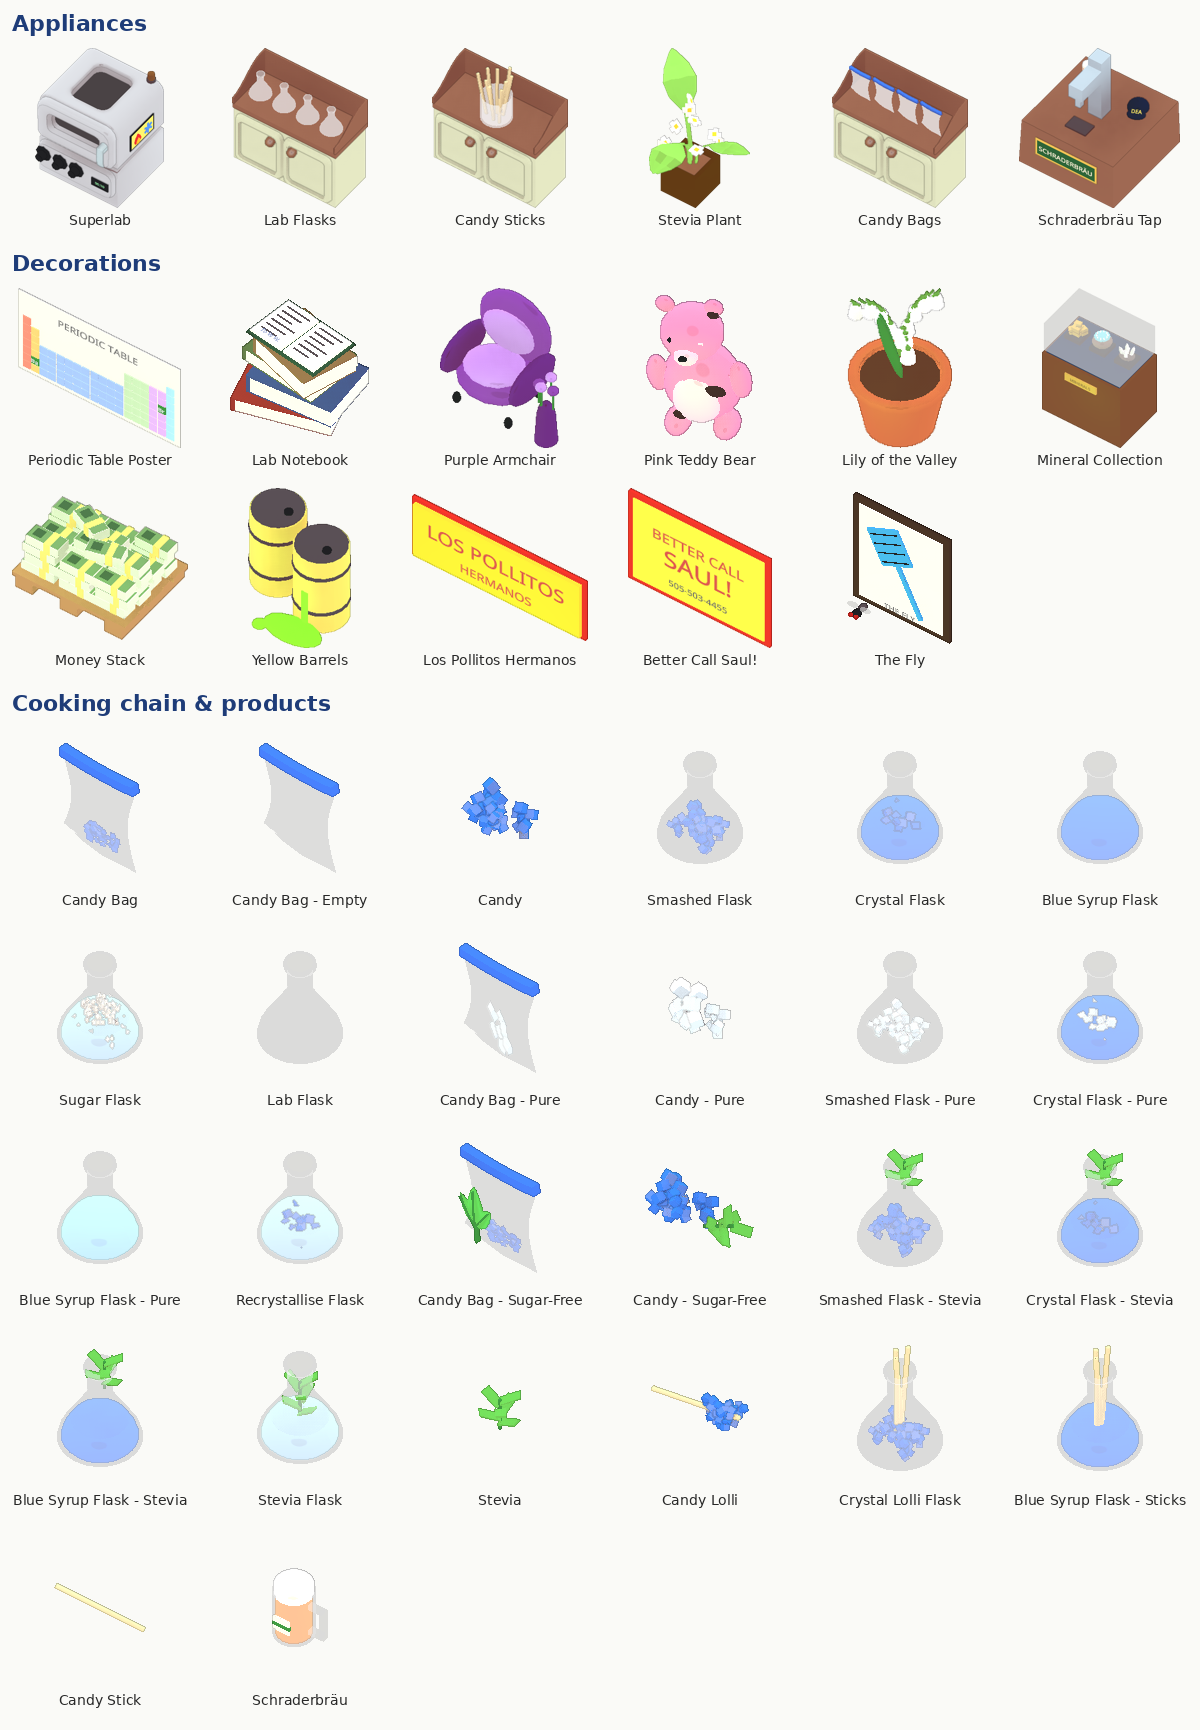
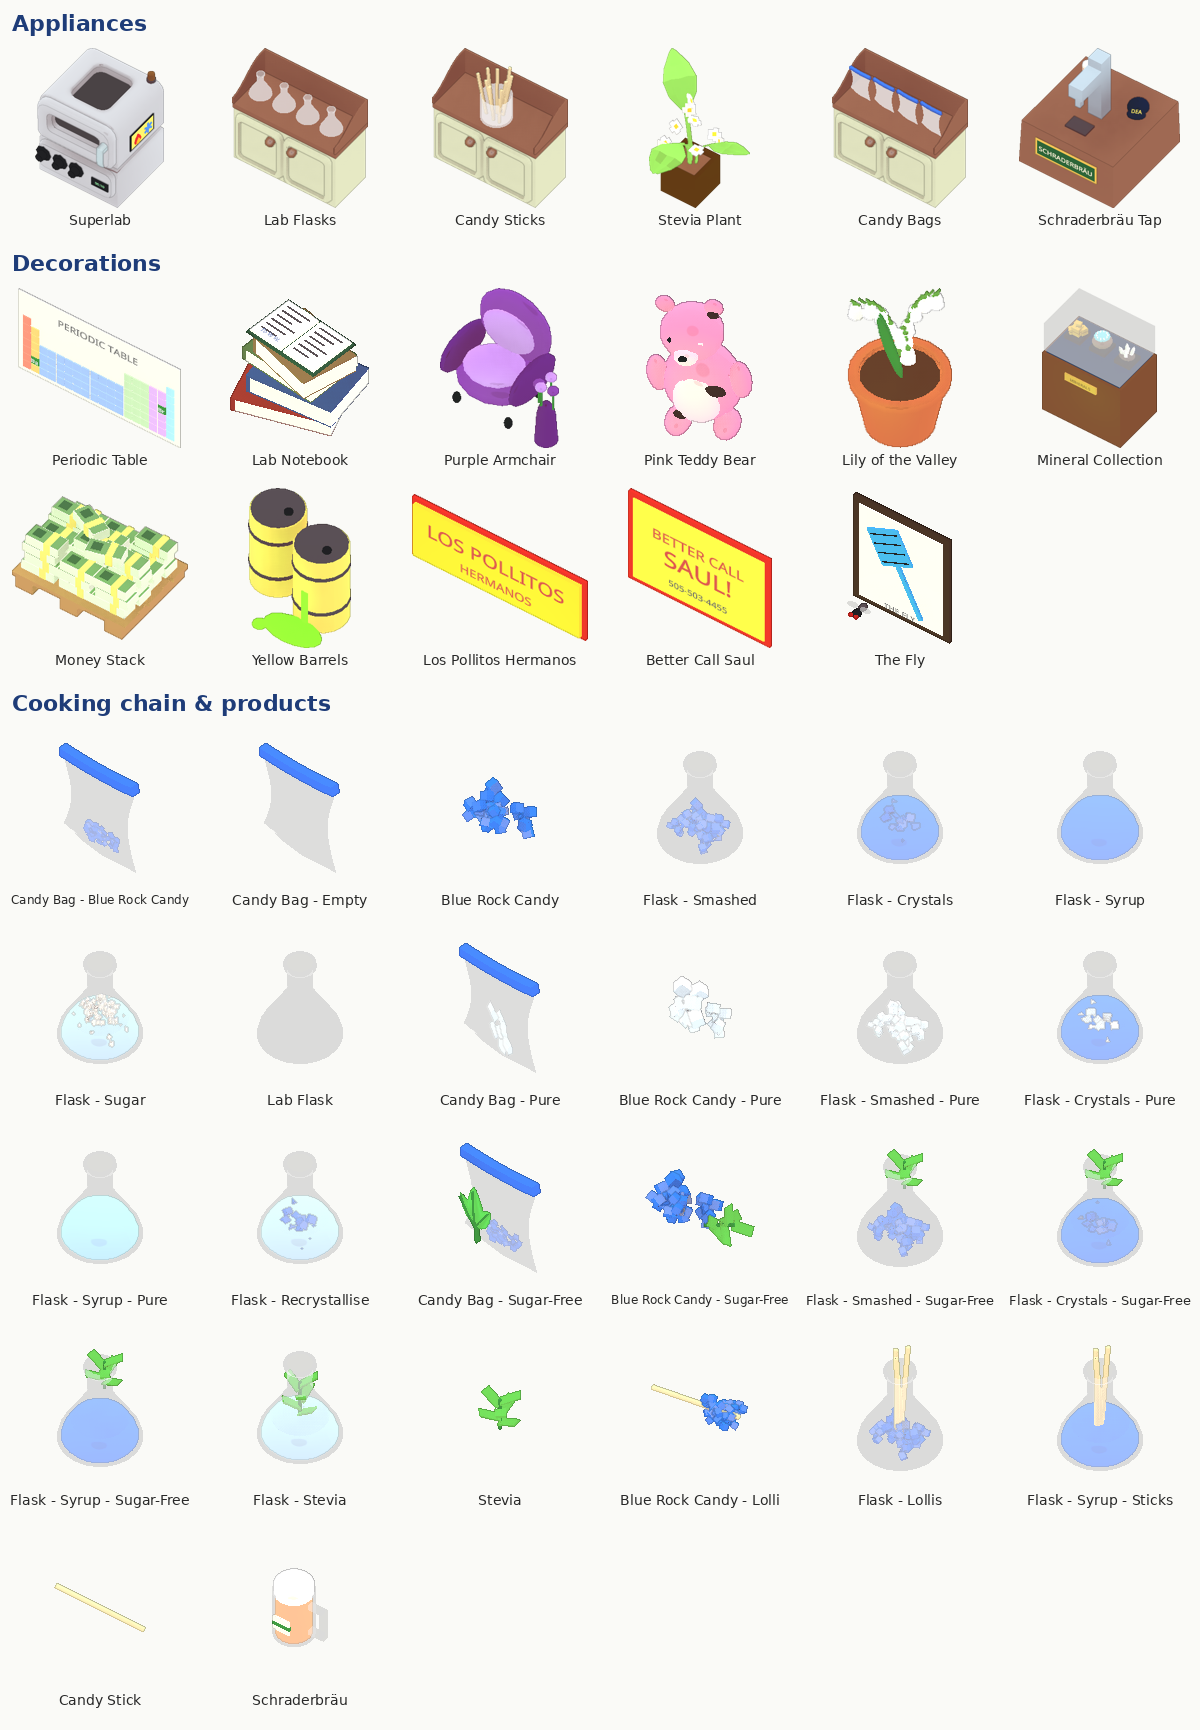
Clean up IDs, Birthday Bacon quote, Workshop preview image
Claude-Session: https://claude.ai/code/session_015GqofioDjWudb3ymTQ5UDm

diff --git a/BreakingPlates/Custom/Candy.cs b/BreakingPlates/Custom/Candy.cs
@@ -211,7 +211,7 @@ namespace BreakingPlates.Custom
 
     public class SugarPot : RawBatchBase
     {
-        public override string UniqueNameID => "Sugar Pot";
+        public override string UniqueNameID => "Flask - Sugar";
         protected override Item Container => G.I<LabFlask>();
         protected override Item Sweetener => Ref(ItemReferences.Sugar);
         protected override Item CookResult => G.I<SyrupPot>();
@@ -219,21 +219,21 @@ namespace BreakingPlates.Custom
 
     public class SyrupPot : SyrupBase
     {
-        public override string UniqueNameID => "Blue Syrup Pot";
+        public override string UniqueNameID => "Flask - Syrup";
         protected override Item Container => G.I<LabFlask>();
         protected override Item Crystallised => G.I<CrystalPot>();
     }
 
     public class CrystalPot : CrystalBase
     {
-        public override string UniqueNameID => "Crystal Pot";
+        public override string UniqueNameID => "Flask - Crystals";
         protected override Item Container => G.I<LabFlask>();
         protected override Item Smashed => G.I<ShardsPot>();
     }
 
     public class PureCrystalPot : CrystalBase
     {
-        public override string UniqueNameID => "Crystal Pot - Pure";
+        public override string UniqueNameID => "Flask - Crystals - Pure";
         protected override Item Container => G.I<LabFlask>();
         protected override Item Smashed => G.I<PureShardsPot>();
         protected override bool Pure => true;
@@ -241,14 +241,14 @@ namespace BreakingPlates.Custom
 
     public class ShardsPot : ShardsBase
     {
-        public override string UniqueNameID => "Crystal Shards Pot";
+        public override string UniqueNameID => "Flask - Smashed";
         protected override Item Container => G.I<LabFlask>();
         protected override Item Portion => G.I<BlueRockCandy>();
     }
 
     public class PureShardsPot : ShardsBase
     {
-        public override string UniqueNameID => "Crystal Shards Pot - Pure";
+        public override string UniqueNameID => "Flask - Smashed - Pure";
         protected override Item Container => G.I<LabFlask>();
         protected override Item Portion => G.I<PureBlueRockCandy>();
         protected override bool Pure => true;
@@ -259,7 +259,7 @@ namespace BreakingPlates.Custom
 
     public class RecrystallisePot : CustomItemGroup
     {
-        public override string UniqueNameID => "Recrystallise Pot";
+        public override string UniqueNameID => "Flask - Recrystallise";
         public override ItemStorage ItemStorageFlags => ItemStorage.None;
         public override Item DisposesTo => G.I<LabFlask>();
         public override string ColourBlindTag => "Re";
@@ -308,7 +308,7 @@ namespace BreakingPlates.Custom
     // Klarer, heller Sirup: wird beim Abkühlen zu reinen Kristallen.
     public class PureSyrupPot : SyrupBase
     {
-        public override string UniqueNameID => "Blue Syrup Pot - Pure";
+        public override string UniqueNameID => "Flask - Syrup - Pure";
         protected override Item Container => G.I<LabFlask>();
         protected override Item Crystallised => G.I<PureCrystalPot>();
         protected override Material SyrupMaterial => Materials.Solid("Pure Syrup", new Color(0.6f, 0.85f, 1f));
@@ -357,7 +357,7 @@ namespace BreakingPlates.Custom
 
     public class SteviaPot : RawBatchBase
     {
-        public override string UniqueNameID => "Stevia Pot";
+        public override string UniqueNameID => "Flask - Stevia";
         protected override Item Container => G.I<LabFlask>();
         protected override Item Sweetener => G.I<Stevia>();
         protected override Item CookResult => G.I<SteviaSyrupPot>();
@@ -367,7 +367,7 @@ namespace BreakingPlates.Custom
     public class SteviaSyrupPot : SyrupBase
     {
         protected override bool MarkStevia => true;
-        public override string UniqueNameID => "Blue Syrup Pot - Stevia";
+        public override string UniqueNameID => "Flask - Syrup - Sugar-Free";
         protected override Item Container => G.I<LabFlask>();
         protected override Item Crystallised => G.I<SteviaCrystalPot>();
         public override string ColourBlindTag => "SF";
@@ -376,7 +376,7 @@ namespace BreakingPlates.Custom
     public class SteviaCrystalPot : CrystalBase
     {
         protected override bool MarkStevia => true;
-        public override string UniqueNameID => "Crystal Pot - Stevia";
+        public override string UniqueNameID => "Flask - Crystals - Sugar-Free";
         protected override Item Container => G.I<LabFlask>();
         protected override Item Smashed => G.I<SteviaShardsPot>();
         public override string ColourBlindTag => "SF";
@@ -385,7 +385,7 @@ namespace BreakingPlates.Custom
     public class SteviaShardsPot : ShardsBase
     {
         protected override bool MarkStevia => true;
-        public override string UniqueNameID => "Crystal Shards Pot - Stevia";
+        public override string UniqueNameID => "Flask - Smashed - Sugar-Free";
         protected override Item Container => G.I<LabFlask>();
         protected override Item Portion => G.I<SugarFreeCandy>();
         public override string ColourBlindTag => "SF";
@@ -414,7 +414,7 @@ namespace BreakingPlates.Custom
     // Sirup + Stiel: Stiel muss rein, bevor der Sirup fest wird.
     public class StickSyrupPot : CustomItemGroup
     {
-        public override string UniqueNameID => "Blue Syrup Pot - Sticks";
+        public override string UniqueNameID => "Flask - Syrup - Sticks";
         public override ItemStorage ItemStorageFlags => ItemStorage.None;
         public override Item DisposesTo => G.I<LabFlask>();
         public override string ColourBlindTag => "St";
@@ -458,7 +458,7 @@ namespace BreakingPlates.Custom
     // Fertige Lollis im Kolben: direkt 5 Stück entnehmen (kein Kneten).
     public class LolliPot : ShardsBase
     {
-        public override string UniqueNameID => "Crystal Lolli Pot";
+        public override string UniqueNameID => "Flask - Lollis";
         protected override bool WholeBatch => false;
         protected override Item Container => G.I<LabFlask>();
         protected override Item Portion => G.I<RockCandyLolli>();
@@ -477,7 +477,7 @@ namespace BreakingPlates.Custom
 
     public class RockCandyLolli : CustomItem
     {
-        public override string UniqueNameID => "Blue Rock Candy Lolli";
+        public override string UniqueNameID => "Blue Rock Candy - Lolli";
         public override ItemStorage ItemStorageFlags => ItemStorage.StackableFood;
         public override ItemValue ItemValue => ItemValue.Medium;
         public override string ColourBlindTag => "St";

diff --git a/BreakingPlates/Custom/Dishes.cs b/BreakingPlates/Custom/Dishes.cs
@@ -44,7 +44,7 @@ namespace BreakingPlates.Custom
 
     public class BlueRockCandyDish : CustomDish
     {
-        public override string UniqueNameID => "Blue Rock Candy Dish";
+        public override string UniqueNameID => "Blue Rock Candy Card";
         public override DishType Type => DishType.Base;
         public override CardType CardType => CardType.Default;
         public override UnlockGroup UnlockGroup => UnlockGroup.Dish;
@@ -107,7 +107,7 @@ namespace BreakingPlates.Custom
     // 99,1 %: Umkristallisieren (Splitter + Wasser, kochen, abkühlen) -> reine Kristalle.
     public class PureCandyDish : CandyCardBase
     {
-        public override string UniqueNameID => "Pure Blue Rock Candy Dish";
+        public override string UniqueNameID => "Purity Card";
         public override DishType Type => DishType.Main;
         public override bool IsMainThatDoesNotNeedPlates => true;
         public override int Difficulty => 2;
@@ -127,7 +127,7 @@ namespace BreakingPlates.Custom
     // Chili P: Jalapeño schneiden und ins Tütchen -> roter Verschluss.
     public class ChiliPDish : CandyCardBase
     {
-        public override string UniqueNameID => "Chili P Dish";
+        public override string UniqueNameID => "Chili P Card";
         public override DishType Type => DishType.Extra;
         public override int Difficulty => 1;
         public override HashSet<Item> MinimumIngredients => new HashSet<Item> { G.I<IngredientLib.Ingredient.Items.Jalapeno>() };
@@ -157,7 +157,7 @@ namespace BreakingPlates.Custom
     // Sugar-Free: Stevia statt Zucker, grüner Verschluss.
     public class SugarFreeDish : CandyCardBase
     {
-        public override string UniqueNameID => "Sugar-Free Rock Candy Dish";
+        public override string UniqueNameID => "Sugar-Free Card";
         public override DishType Type => DishType.Main;
         public override bool IsMainThatDoesNotNeedPlates => true;
         public override int Difficulty => 2;
@@ -174,7 +174,7 @@ namespace BreakingPlates.Custom
     // Am Stiel: Stiel in den Sirup, bevor er fest wird -> Kristall-Lollis.
     public class LolliDish : CandyCardBase
     {
-        public override string UniqueNameID => "Rock Candy Lolli Dish";
+        public override string UniqueNameID => "On a Stick Card";
         public override DishType Type => DishType.Main;
         public override bool IsMainThatDoesNotNeedPlates => true;
         public override int Difficulty => 2;
@@ -191,7 +191,7 @@ namespace BreakingPlates.Custom
     // Ganze Platte: der volle Kolben für eine ganze Gruppe.
     public class PlatterDish : CandyCardBase
     {
-        public override string UniqueNameID => "Rock Candy Platter Dish";
+        public override string UniqueNameID => "Mass Production Card";
         public override DishType Type => DishType.Main;
         public override int Difficulty => 2;
         public override bool IsMainThatDoesNotNeedPlates => true;
@@ -211,7 +211,7 @@ namespace BreakingPlates.Custom
     // Schraderbräu als Beilage.
     public class SchraderDish : CandyCardBase
     {
-        public override string UniqueNameID => "Schraderbraeu Side";
+        public override string UniqueNameID => "Schraderbraeu Card";
         public override DishType Type => DishType.Side;
         public override int Difficulty => 1;
         public override HashSet<Item> MinimumIngredients => new HashSet<Item> { G.I<Schraderbraeu>() };
@@ -227,7 +227,7 @@ namespace BreakingPlates.Custom
     // Effekt-Karte "Breaking Even": weniger Kunden (~30 %), dafür 25 % weniger Geld am Tagesende.
     public class BreakingEvenCard : CustomUnlockCard
     {
-        public override string UniqueNameID => "Breaking Even";
+        public override string UniqueNameID => "Breaking Even Card";
         public override CardType CardType => CardType.Default;
         public override UnlockGroup UnlockGroup => UnlockGroup.Generic;
         public override bool IsUnlockable => true;

diff --git a/BreakingPlates/Custom/DecoMore.cs b/BreakingPlates/Custom/DecoMore.cs
@@ -41,7 +41,7 @@ namespace BreakingPlates.Custom
     // Rosa Teddybär aus dem Pool: ein Auge fehlt, ein paar angekokelte Stellen.
     public class PinkTeddy : DecoBase
     {
-        public override string UniqueNameID => "Pink Teddy";
+        public override string UniqueNameID => "Pink Teddy Bear";
         protected override DecorationType Theme => DecorationType.Charming;
         protected override int[] VanillaIDs => new[] { ApplianceReferences.CosyBarrel };
         protected override string Title => "Pink Teddy Bear";
@@ -78,7 +78,7 @@ namespace BreakingPlates.Custom
     // Maiglöckchen im Terrakotta-Topf: hängende Glöckchen, damit es nicht wie die Stevia-Pflanze aussieht.
     public class LilyOfTheValley : DecoBase
     {
-        public override string UniqueNameID => "Lily Of The Valley";
+        public override string UniqueNameID => "Lily of the Valley";
         protected override DecorationType Theme => DecorationType.Charming;
         protected override int[] VanillaIDs => new[] { ApplianceReferences.CosyBarrel };
         protected override string Title => "Lily of the Valley";
@@ -134,7 +134,7 @@ namespace BreakingPlates.Custom
     // "They're minerals, Marie!" – Vitrine mit Hanks Steinen (bewusst nicht lila).
     public class HankMinerals : DecoBase
     {
-        public override string UniqueNameID => "Hank Minerals";
+        public override string UniqueNameID => "Mineral Collection";
         protected override DecorationType Theme => DecorationType.Exclusive;
         protected override int[] VanillaIDs => new[] { ApplianceReferences.CosyBarrel };
         protected override string Title => "Mineral Collection";
@@ -260,7 +260,7 @@ namespace BreakingPlates.Custom
     // Maries lila Ecke: lila Sessel + lila Vase mit lila Blumen.
     public class MariePurple : DecoBase
     {
-        public override string UniqueNameID => "Marie Purple Chair";
+        public override string UniqueNameID => "Purple Armchair";
         protected override DecorationType Theme => DecorationType.Formal;
         protected override int[] VanillaIDs => new[] { ApplianceReferences.CosyBarrel };
         protected override string Title => "Purple Armchair";
@@ -300,7 +300,7 @@ namespace BreakingPlates.Custom
     // Gales Laborbuch auf einem Bücherstapel.
     public class GaleNotebook : DecoBase
     {
-        public override string UniqueNameID => "Gale Notebook";
+        public override string UniqueNameID => "Lab Notebook";
         protected override DecorationType Theme => DecorationType.Formal;
         protected override int[] VanillaIDs => new[] { ApplianceReferences.CosyBarrel };
         protected override string Title => "Lab Notebook";
@@ -419,7 +419,7 @@ namespace BreakingPlates.Custom
     // "Better Call Saul!"-Plakat (nur Schrift).
     public class SaulPoster : DecoBase
     {
-        public override string UniqueNameID => "Saul Poster";
+        public override string UniqueNameID => "Better Call Saul";
         protected override string Title => "Better Call Saul!";
         protected override DecorationType Theme => DecorationType.Affordable;
         protected override int[] VanillaIDs => new[] { ApplianceReferences.FancyPainting, ApplianceReferences.Painting, ApplianceReferences.FriendsPoster, ApplianceReferences.BunnyPoster, ApplianceReferences.AffordableNeonSign1 };

diff --git a/BreakingPlates/Custom/Lab.cs b/BreakingPlates/Custom/Lab.cs
@@ -98,7 +98,7 @@ namespace BreakingPlates.Custom
     // --- Tütchen ---
     public class BagProvider : ProviderBase
     {
-        public override string UniqueNameID => "Candy Bag Provider";
+        public override string UniqueNameID => "Candy Bags";
         protected override Item Provided => (Item)GDOUtils.GetCustomGameDataObject<EmptyBag>().GameDataObject;
         protected override string Title => "Candy Bags";
         protected override string Desc => "Provides small bags. Strictly for candy.";
@@ -124,7 +124,7 @@ namespace BreakingPlates.Custom
 
     public class FlaskProvider : ProviderBase
     {
-        public override string UniqueNameID => "Lab Flask Provider";
+        public override string UniqueNameID => "Lab Flasks";
         protected override Item Provided => (Item)GDOUtils.GetCustomGameDataObject<LabFlask>().GameDataObject;
         protected override string Title => "Lab Flasks";
         protected override string Desc => "Think of it as a pot. A very scientific pot.";
@@ -155,7 +155,7 @@ namespace BreakingPlates.Custom
 
     public class StickProvider : ProviderBase
     {
-        public override string UniqueNameID => "Candy Stick Provider";
+        public override string UniqueNameID => "Candy Sticks";
         protected override Item Provided => (Item)GDOUtils.GetCustomGameDataObject<CandyStick>().GameDataObject;
         protected override string Title => "Candy Sticks";
         protected override string Desc => "Put one in the syrup before it sets.";
@@ -192,9 +192,9 @@ namespace BreakingPlates.Custom
 
     public class SteviaProvider : ProviderBase
     {
-        public override string UniqueNameID => "Stevia Provider";
+        public override string UniqueNameID => "Stevia Plant";
         protected override Item Provided => (Item)GDOUtils.GetCustomGameDataObject<Stevia>().GameDataObject;
-        protected override string Title => "Stevia";
+        protected override string Title => "Stevia Plant";
         protected override string Desc => "Sugar-free. Lydia insists.";
         // Topfpflanze aus dem Spiel als Quelle, aber eigene Farben + Schild, damit sie nicht wie die Deko-Pflanze aussieht.
         protected override int BaseApplianceID => ApplianceReferences.Plant;

diff --git a/BreakingPlates/Custom/Deco.cs b/BreakingPlates/Custom/Deco.cs
@@ -124,7 +124,7 @@ namespace BreakingPlates.Custom
     // Periodensystem-Poster (Br und Ba grün hervorgehoben).
     public class PeriodicPoster : DecoBase
     {
-        public override string UniqueNameID => "Periodic Table Poster";
+        public override string UniqueNameID => "Periodic Table";
         protected override DecorationType Theme => DecorationType.Formal;
         protected override int[] VanillaIDs => new[] { ApplianceReferences.FancyPainting, ApplianceReferences.Painting, ApplianceReferences.FriendsPoster, ApplianceReferences.BunnyPoster, ApplianceReferences.AffordableNeonSign1 };
         protected override string Title => "Periodic Table";
@@ -210,7 +210,7 @@ namespace BreakingPlates.Custom
     // Los-Pollitos-Schild (Wand).
     public class LosPollitosSign : DecoBase
     {
-        public override string UniqueNameID => "Los Pollitos Sign";
+        public override string UniqueNameID => "Los Pollitos Hermanos";
         protected override DecorationType Theme => DecorationType.Affordable;
         protected override int[] VanillaIDs => new[] { ApplianceReferences.FancyPainting, ApplianceReferences.Painting, ApplianceReferences.FriendsPoster, ApplianceReferences.BunnyPoster, ApplianceReferences.AffordableNeonSign1 };
         protected override string Title => "Los Pollitos Hermanos";

diff --git a/BreakingPlates/Custom/Sides.cs b/BreakingPlates/Custom/Sides.cs
@@ -14,7 +14,7 @@ namespace BreakingPlates.Custom
     public class BaconDish : CandyCardBase
     {
         private static Item ILib<T>() where T : CustomGameDataObject => (Item)GDOUtils.GetCustomGameDataObject<T>().GameDataObject;
-        public override string UniqueNameID => "Birthday Bacon Side";
+        public override string UniqueNameID => "Birthday Bacon Card";
         public override DishType Type => DishType.Side;
         public override int Difficulty => 2;
         public override HashSet<Item> MinimumIngredients => new HashSet<Item> { ILib<IngredientLib.Ingredient.Items.Pork>() };
@@ -25,7 +25,7 @@ namespace BreakingPlates.Custom
             PrefabUtil.CloneCustomItem(GDOUtils.GetCustomGameDataObject<IngredientLib.Ingredient.Items.Bacon>(), t, "Bacon", Vector3.zero, 1.4f));
         protected override string CardName => "Birthday Bacon";
         protected override string CardDescription => "Adds Bacon as a side";
-        protected override string Quote => "Fifty-two.";
+        protected override string Quote => "Happy birthday.";
         protected override string RecipeText => "Take pork from the fridge, chop it and fry it into bacon. Serve it with the order.";
     }
 }

diff --git a/BreakingPlates/Custom/Reactor.cs b/BreakingPlates/Custom/Reactor.cs
@@ -10,7 +10,7 @@ namespace BreakingPlates.Custom
     // Abkühlen im Superlab: eigener Vorgang mit Eiskristall-Symbol, nur für Kolben.
     public class ReactCoolProcess : CustomProcess
     {
-        public override string UniqueNameID => "React Cool";
+        public override string UniqueNameID => "Superlab Cool";
         public override GameDataObject BasicEnablingAppliance => GDOUtils.GetCustomGameDataObject<Superlab>().GameDataObject;
         public override bool CanObfuscateProgress => true;
         public override List<(Locale, ProcessInfo)> InfoList => new List<(Locale, ProcessInfo)>

diff --git a/README.md b/README.md
@@ -34,7 +34,7 @@ Every candy bag looks the same: clear foil, blue zip. Toppings and variants are 
 | **On a Stick** | Main | 2 | small decrease | 5 | **Candy stick** into the hot syrup → 5 lollis straight from the flask | *"Yeah, science!"* |
 | **Mass Production** | Main | 2 | small decrease | 20 | Groups order a **full flask** (up to 5 customers – one per portion) – in every variant you sell. Only a full flask counts. Whoever orders a flask or a lolli orders no side | *"I'm in the empire business."* |
 | **Schraderbräu** | Side | 1 | small decrease | 2 | Home-brewed beer from the tap | *"Home-brewed to silky perfection."* |
-| **Birthday Bacon** | Side | 2 | small decrease | 2 | Pork from the fridge → chop → fry into bacon (IngredientLib) | *"Fifty-two."* |
+| **Birthday Bacon** | Side | 2 | small decrease | 2 | Pork from the fridge → chop → fry into bacon (IngredientLib) | *"Happy birthday."* |
 | **Breaking Even** | Effect | – | **large decrease** | –25% money | Fewer customers, earn 25% less money | *"Better call Saul!"* |
 
 "Small decrease" / "large decrease" are the game's customer tags (about −15% / −28% customers).
